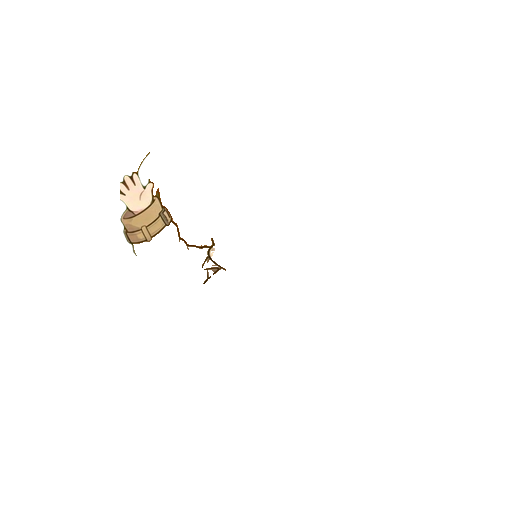
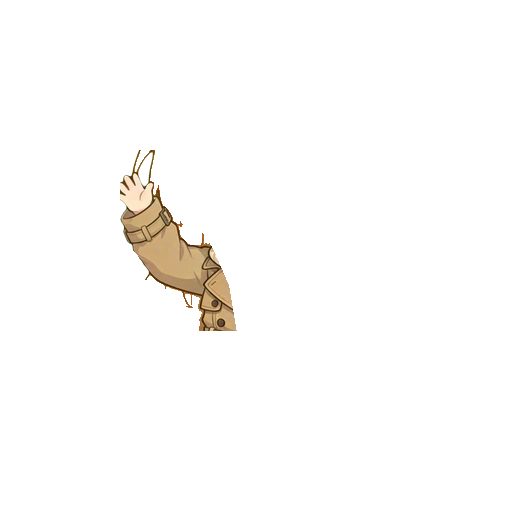
修正新装扮举手臂的分层与手位锚点
按各套 happy 帧重新划定手臂提取范围，避免袖口和手与头发粘连，并同步手位锚点与生成流程文档，补上全套装扮建库校验。

Changed region(s): [[0.25, 0.4375, 0.4688, 0.6562], [0.25, 0.2812, 0.3125, 0.3438]]

diff --git a/tools/build_rig.py b/tools/build_rig.py
@@ -150,8 +150,8 @@ JK = OutfitConfig(
     fill_color=None,
     legs_poly=((200, 434), (314, 434), (314, 505), (200, 505)),
     arm_geometry_poly=(
-        (112, 145), (198, 145), (210, 230), (224, 262), (236, 300),
-        (232, 312), (150, 312), (142, 258), (104, 202),
+        (112, 145), (198, 145), (210, 230), (222, 262), (230, 296),
+        (226, 308), (150, 308), (142, 258), (104, 202),
     ),
 )
 
@@ -168,11 +168,11 @@ _NEW_COMMON = dict(
     fill_color=None,
 )
 ARM_GEOMETRY = (
-    (100, 142), (192, 142), (204, 205), (214, 242), (226, 272),
-    (242, 332), (148, 332), (138, 262), (92, 205),
+    (100, 142), (175, 142), (188, 212), (212, 248), (228, 285),
+    (236, 332), (162, 332), (138, 255), (92, 205),
 )
 LONG_SLEEVE_POLY = (
-    (138, 212), (250, 212), (250, 332), (138, 332),
+    (138, 212), (242, 212), (242, 332), (138, 332),
 )
 
 
@@ -187,6 +187,7 @@ def _new(
     arm_sleeve_poly: tuple[tuple[int, int], ...] = (),
     legs_left: int = 195,
     legs_right: int = 325,
+    arm_geometry_poly: tuple[tuple[int, int], ...] = ARM_GEOMETRY,
 ) -> OutfitConfig:
     return OutfitConfig(
         outfit=outfit,
@@ -195,17 +196,24 @@ def _new(
         legs_poly=_legs(leg_top, legs_left, legs_right),
         arm_rule=arm_rule,
         arm_sleeve_poly=arm_sleeve_poly,
-        arm_geometry_poly=ARM_GEOMETRY if arm_rule == "auto" else (),
+        arm_geometry_poly=arm_geometry_poly,
         **_NEW_COMMON,
     )
 
 
 EXTRA = [
     _new("pajama", 385),
-    _new("sport", 395, arm_rule="skin", arm_sleeve_poly=LONG_SLEEVE_POLY),
+    _new(
+        "sport", 395,
+        arm_rule="full",
+        arm_geometry_poly=(
+            (100, 142), (175, 142), (190, 215), (218, 255), (230, 295),
+            (234, 332), (162, 332), (138, 255), (92, 205),
+        ),
+    ),
     _new("sweater", 443),
     _new("yukata", 475),
-    _new("qipao", 470, arm_rule="skin", arm_sleeve_poly=((185, 245), (242, 245), (242, 315), (185, 315))),
+    _new("qipao", 470, arm_rule="full"),
     _new("santa", 442),
     _new("raincoat", 458),
     _new("trench", 445),
@@ -337,6 +345,38 @@ def fill_holes(mask: np.ndarray) -> np.ndarray:
     return mask | (~mask & ~exterior)
 
 
+def components(mask: np.ndarray) -> list[tuple[tuple[int, int], ...]]:
+    height, width = mask.shape
+    seen = np.zeros_like(mask, dtype=bool)
+    found: list[tuple[tuple[int, int], ...]] = []
+    for y0, x0 in zip(*np.nonzero(mask)):
+        if seen[y0, x0]:
+            continue
+        stack = [(int(y0), int(x0))]
+        seen[y0, x0] = True
+        component: list[tuple[int, int]] = []
+        while stack:
+            y, x = stack.pop()
+            component.append((y, x))
+            for dy, dx in ((1, 0), (-1, 0), (0, 1), (0, -1)):
+                ny, nx = y + dy, x + dx
+                if 0 <= ny < height and 0 <= nx < width and mask[ny, nx] and not seen[ny, nx]:
+                    seen[ny, nx] = True
+                    stack.append((ny, nx))
+        found.append(tuple(component))
+    return found
+
+
+def fill_small_holes(mask: np.ndarray, max_area: int = 900) -> np.ndarray:
+    holes = fill_holes(mask) & ~mask
+    out = mask.copy()
+    for part in components(holes):
+        if len(part) <= max_area:
+            ys, xs = zip(*part)
+            out[list(ys), list(xs)] = True
+    return out
+
+
 def largest_component(mask: np.ndarray) -> np.ndarray:
     seen = np.zeros_like(mask, dtype=bool)
     best: list[tuple[int, int]] = []
@@ -404,12 +444,20 @@ def arm_up_mask(
     region: np.ndarray,
 ) -> np.ndarray:
     alpha = happy[..., 3] > 8
+    data = happy.astype(np.int16)
+    r, g, b = data[..., 0], data[..., 1], data[..., 2]
     if config.arm_rule == "auto":
         geometry = polygon_mask((CANVAS, CANVAS), config.arm_geometry_poly)
-        core = alpha & ~happy_masks["hair"] & ~happy_masks["dark"] & geometry & region
-        mask = core | (happy_masks["dark"] & dilate(core, 2) & geometry & region)
-        mask = largest_component(fill_holes(mask))
-        return mask & alpha
+        hair = happy_masks["hair"] & (r > 175) & (g > 70) & (g < 195) & (r - g > 60)
+        core = alpha & ~hair & ~happy_masks["dark"] & geometry & region
+        core = core | (happy_masks["dark"] & dilate(core, 2) & geometry & region)
+        core = largest_component(fill_small_holes(core))
+        return core & alpha
+    if config.arm_rule == "full":
+        geometry = polygon_mask((CANVAS, CANVAS), config.arm_geometry_poly)
+        hair = happy_masks["hair"] & (r > 175) & (g > 70) & (g < 195) & (r - g > 60)
+        mask = alpha & ~hair & geometry & region
+        return largest_component(fill_small_holes(mask)) & alpha
     if config.arm_rule == "cream":
         if config.arm_geometry_poly:
             geometry = polygon_mask((CANVAS, CANVAS), config.arm_geometry_poly)
@@ -434,11 +482,18 @@ def arm_up_mask(
         & (r - b < 110)
         & (r - g < 90)
     )
+    geometry = None
+    if config.arm_geometry_poly:
+        geometry = polygon_mask((CANVAS, CANVAS), config.arm_geometry_poly)
+        skin = skin & (r - g > 12) & geometry
     mask = skin & region
-    mask |= happy_masks["dark"] & dilate(mask, 2) & region
     if config.arm_sleeve_poly:
         sleeve = polygon_mask((CANVAS, CANVAS), config.arm_sleeve_poly)
         mask |= happy_masks["dark"] & sleeve
+    mask |= happy_masks["dark"] & dilate(mask, 4 if geometry is not None else 2) & region
+    if geometry is not None:
+        mask &= geometry
+        return fill_small_holes(mask) & alpha
     mask = fill_holes(mask)
     mask = largest_component(mask)
     return mask & alpha
@@ -480,7 +535,9 @@ def build(config: OutfitConfig) -> None:
     else:
         legs_mask = idle_masks["dark"] & (Y >= config.leg_top)
     left_arm_mask = arm_down_poly & alpha & ~idle_masks["hair"] & ~head_mask
-    arm_region = arm_up_poly & happy_alpha & ~happy_masks["hair"]
+    arm_region = arm_up_poly & happy_alpha
+    if config.arm_rule != "auto":
+        arm_region = arm_region & ~happy_masks["hair"]
     raised_arm = arm_up_mask(config, happy, happy_masks, arm_region)
 
     side_cover = dilate(side_mask)

diff --git a/tests/test_build_rig.py b/tests/test_build_rig.py
@@ -149,3 +149,28 @@ def test_maid_rig_assets_exist_and_check_passes():
     ):
         assert (root / name).is_file(), name
     assert check("maid") == 0
+
+
+def test_all_outfit_rigs_exist_and_check_passes():
+    from pathlib import Path
+
+    from pet.outfits import ALL_OUTFITS
+    from tools.build_rig import CONFIGS, check
+
+    root = Path(__file__).resolve().parent.parent / "assets" / "rig"
+    names = (
+        "legs.png",
+        "body.png",
+        "left_arm.png",
+        "side_hair.png",
+        "head_idle.png",
+        "head_blink.png",
+        "head_happy.png",
+        "arm_up.png",
+        "rig.json",
+    )
+    for outfit in ALL_OUTFITS:
+        assert outfit.id in CONFIGS, outfit.id
+        for name in names:
+            assert (root / outfit.id / name).is_file(), (outfit.id, name)
+        assert check(outfit.id) == 0, outfit.id

diff --git a/docs/outfit-prompts.md b/docs/outfit-prompts.md
@@ -2,12 +2,27 @@
 
 每套两张：`<id>_idle.png` 和 `<id>_happy.png`，1024×1024，纯绿幕。
 
-- 参考图 1（idle）：`assets/raw/casual_idle.png`
-- 参考图 2（happy）：`assets/raw/casual_happy.png`
-- 建议图生图，重绘强度 0.55–0.75；两帧用同一 seed、同一会话。
-- 表情句固定两种：
-  - idle：`calm neutral expression, lips gently closed, eyes open, identical to Image 1`
-  - happy：`happy open-mouth smile with softly closed crescent eyes, identical to Image 2`
+## 生成约定（实测有效）
+
+- **idle 帧**：图生图。Image 1 = `assets/raw/casual_idle.png`（姿势取景参考），Image 2 = `assets/raw/casual_happy.png`。提示词用下方各套 idle 段落。
+- **happy 帧**：图生图。Image 1 = **本套已清洗的 idle 成品图**（`tools/clean_raw.py` 处理过），Image 2 = `assets/raw/casual_happy.png`（姿势表情参考）。
+- happy 帧姿势硬性要求：**画面左侧**（角色右手）举起在头侧挥手，画面右侧手臂自然下垂，与 casual_happy 同姿势。必须显式写 `Do not mirror the pose`，否则模型经常举反边。表情为张嘴笑（与 casual_happy 一致，非闭眼）。
+- happy 提示词模板（`[OUTFIT]` 换成本套服装描述）：
+
+```text
+Use case: consistent-character outfit replacement for a game sprite
+Input images: Image 1 = current character in her [OUTFIT] (keep this exact outfit and character); Image 2 = happy pose and expression reference
+Primary request: Redraw the exact same character from Image 1 in a happy greeting pose, keeping her exact [OUTFIT] unchanged: [DESC].
+Character (must stay identical to Image 1): petite chibi anime girl, very long wavy orange hair with side bangs, large warm amber eyes, fair skin, small sunflower hair ornament with black-and-white ribbon on the viewer's right side, same face shape, same hairstyle, same body proportions.
+Pose: the raised waving arm must be on the SAME side as in Image 2 - on the viewer's LEFT side of the image (the character's right hand) raised in a gentle open-hand wave beside her head; the character's left arm on the viewer's RIGHT side stays relaxed at her side; feet together, same scale and framing as Image 2. Do not mirror the pose.
+Expression: happy open-mouth smile, identical to Image 2
+Background: perfectly flat pure chroma-key green #00FF00. No shadow, no gradient, no floor, no background objects, no text.
+Style: clean cel-shaded anime game sprite, soft shading, crisp clean edges with no green fringe.
+Constraints: change ONLY the pose and expression. Keep the face, eyes, hair, sunflower hair ornament, skin tone and all clothing exactly as in Image 1. Do not add bags, umbrellas, weapons or held objects. No watermark, no text, no extra characters.
+```
+
+- 生成后 `tools/clean_raw.py --gen "<id>_<frame>=<生成文件>"` 归档到 `assets/raw/`；再 `build_sprites.py <id>`、`port_blink.py <id>`、`build_rig.py <id>`。
+- 并行生成时输出文件名可能撞时间戳互相覆盖（实测发生过一次），生成后立即归档再继续下一批。
 
 ## 通用负面提示词
 
@@ -318,8 +333,8 @@ Constraints: change ONLY the clothing and the small witch hat. Keep the face, ey
 ## 参数与排错
 
 - 尺寸 1024×1024；图生图重绘强度 0.55–0.75。
-- 两帧同 seed、同一会话；先出 idle，再以 idle 为底出 happy，脸更稳。
-- 工具只支持一张参考图：两帧都用参考图 1，happy 只换表情句。
+- 工具支持多参考图（image1/image2/image3）：idle 用便服双帧参考，happy 用本套 idle + 便服 happy。
+- happy 手臂举反边：在 Pose 句里显式写 `the raised waving arm must be on the SAME side as in Image 2` 和 `Do not mirror the pose`。
 - 脸/发饰跑偏：降低强度到 0.45–0.55，或提高参考图权重。
 - 衣服没换成功：提高到 0.8 左右，并强调 `change ONLY the clothing`。
 - 出现绿边：把背景改成纯蓝 `#0000FF` 或纯品红 `#FF00FF` 后告诉我，我加对应抠色。
